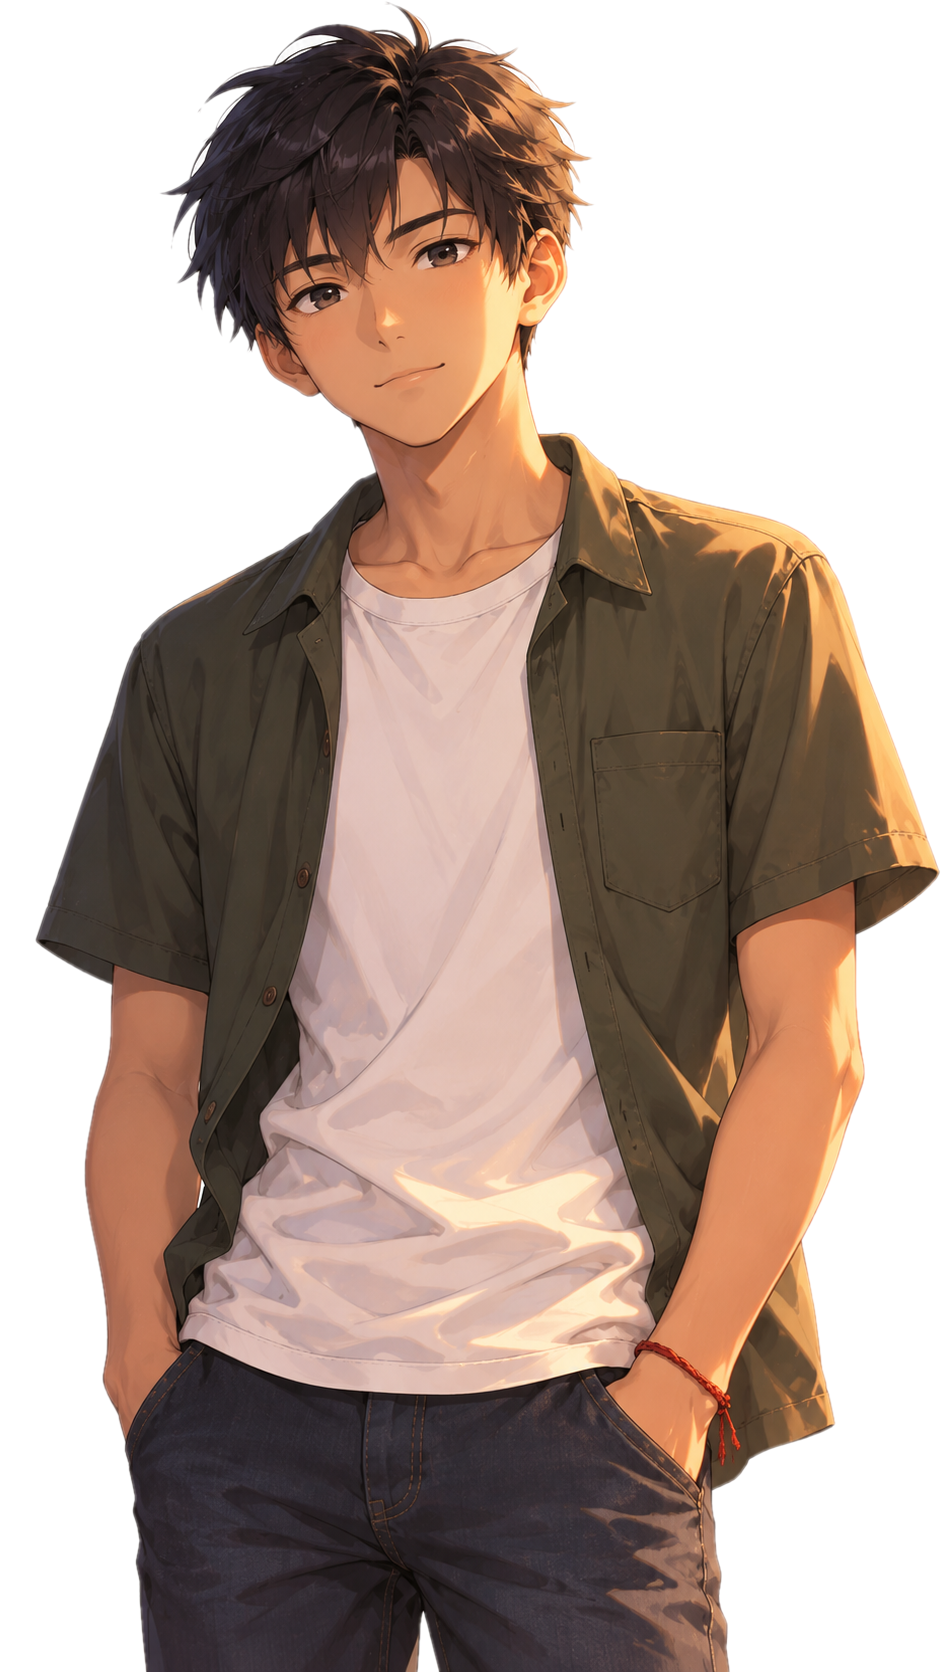
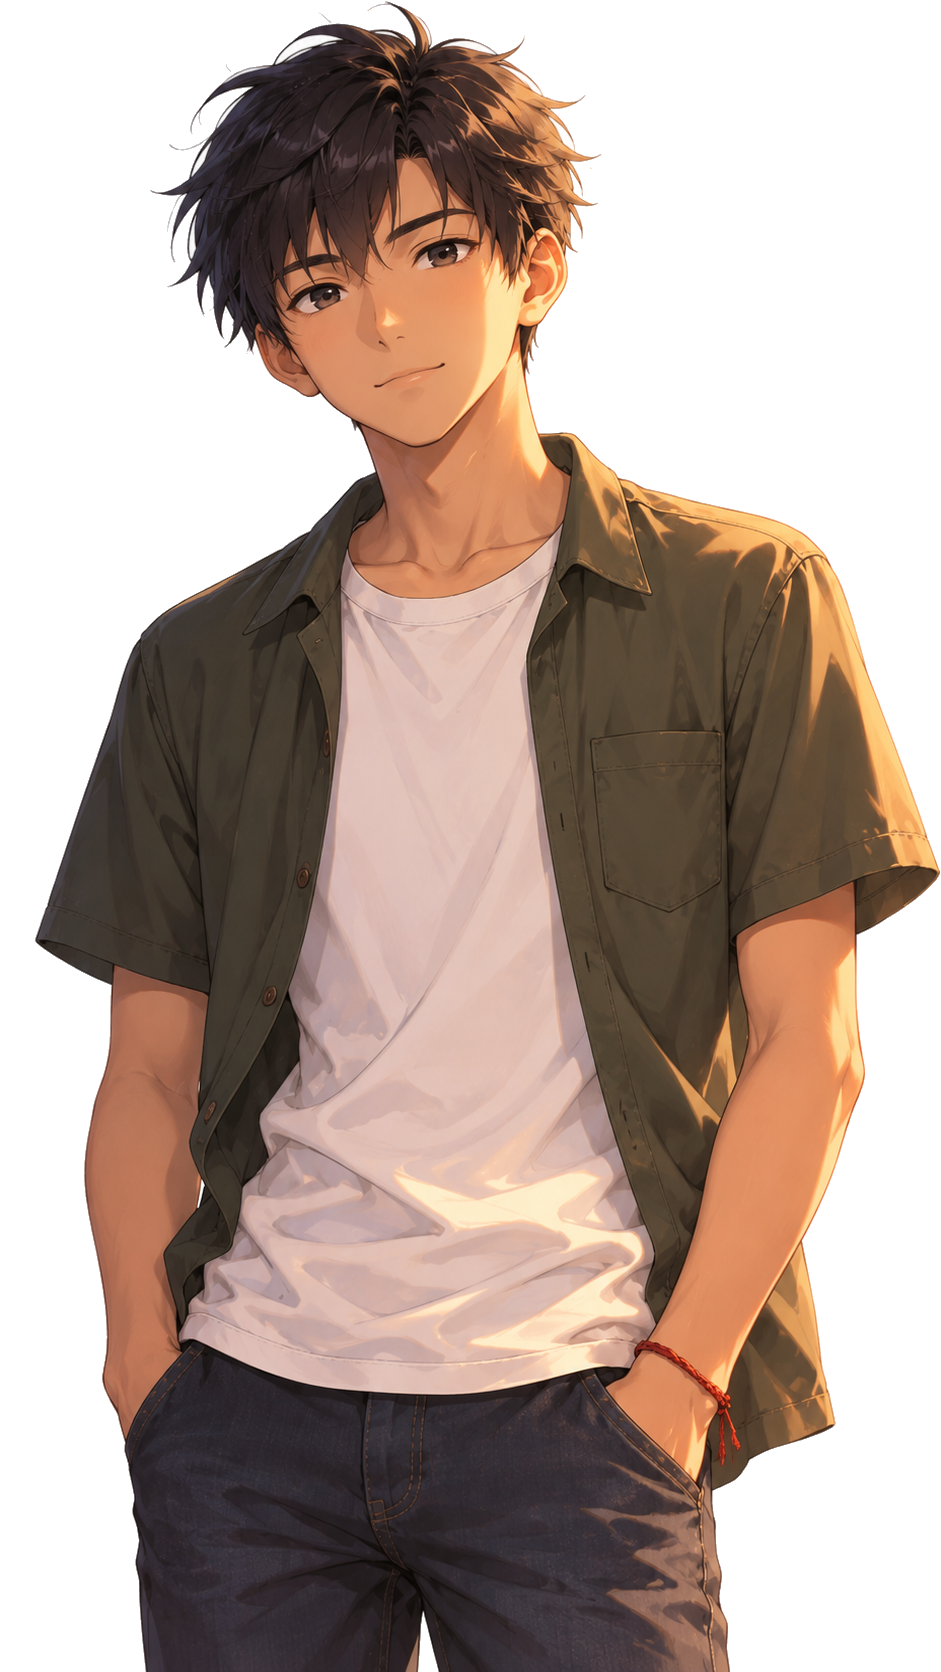
Perbaiki sisa putih di rambut karakter + penataan otomatis karakter (tidak bertumpuk, pembicara disorot)
Claude-Session: https://claude.ai/code/session_01MRhMC5f5cmwfwJoAVQABm5

diff --git a/app/src/main/java/com/valeriusgames/threadsofdestiny/game/GameActivity.kt b/app/src/main/java/com/valeriusgames/threadsofdestiny/game/GameActivity.kt
@@ -70,6 +70,7 @@ class GameActivity : Activity() {
         const val PREFS = "player"
         const val KEY_NAME = "name"
         const val KEY_GENDER = "gender"
+        const val CHAR_BASE_HEIGHT = 0.72f
         const val GENDER_MALE = "laki-laki"
         const val GENDER_FEMALE = "perempuan"
 
@@ -882,7 +883,9 @@ class GameActivity : Activity() {
             nameTag.visibility = View.VISIBLE
             nameTag.text = who
         }
-        updateCharPanel(who?.let { w -> gameData.findCharacter(w) ?: speakerIdFromRaw(speaker) })
+        val speakerDef = who?.let { w -> gameData.findCharacter(w) ?: speakerIdFromRaw(speaker) }
+        updateCharPanel(speakerDef)
+        highlightSpeaker(speakerDef?.id)
 
         if (dialog.alpha < 1f) {
             dialog.animate().cancel()
@@ -2960,6 +2963,9 @@ class GameActivity : Activity() {
         return loadAsset(names.flatMap { n -> listOf("karakter/$n.png", "karakter/$n.webp") })
     }
 
+    /** Karakter yang sedang bicara (untuk disorot); null = narasi / pemain. */
+    private var speakingCharId: String? = null
+
     private fun showCharacter(id: String, expr: String, pos: String, animate: Boolean = true) {
         val bmp = charBitmap(id, expr) ?: return
         val d = resources.displayMetrics.density
@@ -2970,39 +2976,91 @@ class GameActivity : Activity() {
             scaleType = android.widget.ImageView.ScaleType.FIT_END
         }
         iv.setImageBitmap(bmp)
-        val screenH = (charLayer.height.takeIf { it > 0 } ?: resources.displayMetrics.heightPixels)
-        val screenW = (charLayer.width.takeIf { it > 0 } ?: resources.displayMetrics.widthPixels)
-        if (existing == null) {
+        val isNew = existing == null
+        if (isNew) {
+            val screenH = (charLayer.height.takeIf { it > 0 } ?: resources.displayMetrics.heightPixels)
             charLayer.addView(iv, FrameLayout.LayoutParams(
-                ViewGroup.LayoutParams.WRAP_CONTENT, (screenH * 0.72f).toInt(),
+                ViewGroup.LayoutParams.WRAP_CONTENT, (screenH * CHAR_BASE_HEIGHT).toInt(),
                 android.view.Gravity.BOTTOM or android.view.Gravity.CENTER_HORIZONTAL,
             ))
+            if (animate) iv.translationY = 24 * d
         }
-        val targetX = when (pos) {
-            "kiri" -> -screenW * 0.26f
-            "kanan" -> screenW * 0.26f
-            else -> 0f
-        }
-        if (existing == null && animate) {
-            iv.alpha = 0f
-            iv.translationX = targetX
-            iv.translationY = 24 * d
-            iv.animate().alpha(1f).translationY(0f).setDuration(350).start()
-        } else {
-            iv.animate().translationX(targetX).setDuration(250).start()
-        }
+        // posisi baru selalu ditaruh paling akhir supaya urutan kiri→kanan stabil
+        shownChars.remove(id)
         shownChars[id] = expr to pos
         vars["_tampil"] = shownChars.entries.joinToString(";") { "${it.key}:${it.value.first}:${it.value.second}" }
+        layoutCharacters(animate, newId = if (isNew && animate) id else null)
+    }
+
+    /**
+     * Menata semua karakter yang tampil supaya tidak bertumpuk:
+     * 1 orang di tengah, 2 orang kiri–kanan, 3+ dibagi rata. Urutan mengikuti posisi
+     * yang diminta naskah (kiri / tengah / kanan). Yang bicara di depan & terang,
+     * yang lain sedikit lebih kecil dan redup.
+     */
+    private fun layoutCharacters(animate: Boolean, newId: String? = null) {
+        val w = (charLayer.width.takeIf { it > 0 } ?: resources.displayMetrics.widthPixels).toFloat()
+        val h = (charLayer.height.takeIf { it > 0 } ?: resources.displayMetrics.heightPixels).toFloat()
+        val rank = mapOf("kiri" to 0, "tengah" to 1, "kanan" to 2)
+        val order = shownChars.entries.withIndex()
+            .sortedWith(compareBy({ rank[it.value.value.second] ?: 1 }, { it.index }))
+            .map { it.value.key }
+        val n = order.size
+        if (n == 0) return
+        val heightFrac = when (n) { 1 -> 0.72f; 2 -> 0.66f; else -> 0.60f }
+        val spread = when (n) { 1 -> 0f; 2 -> 0.46f; 3 -> 0.62f; else -> 0.72f } * w
+        val speaker = speakingCharId?.takeIf { it in shownChars }
+        order.forEachIndexed { i, id ->
+            val iv = charLayer.findViewWithTag<android.widget.ImageView>("char_$id") ?: return@forEachIndexed
+            val x = if (n == 1) 0f else -spread / 2 + spread * i / (n - 1)
+            val dim = n > 1 && speaker != null && speaker != id
+            val scale = heightFrac / CHAR_BASE_HEIGHT * (if (dim) 0.95f else 1f)
+            // perkecil dari tengah-bawah (kaki tetap di bawah layar)
+            val viewH = h * CHAR_BASE_HEIGHT
+            val dr = iv.drawable
+            val viewW = if (dr != null && dr.intrinsicHeight > 0)
+                minOf(w, viewH * dr.intrinsicWidth / dr.intrinsicHeight) else w
+            iv.pivotX = viewW / 2
+            iv.pivotY = viewH
+            iv.colorFilter = if (dim) android.graphics.PorterDuffColorFilter(
+                0x66000000, android.graphics.PorterDuff.Mode.SRC_ATOP) else null
+            iv.translationZ = if (id == speaker) 2f else 0f
+            iv.animate().cancel()
+            if (id == newId) {
+                iv.alpha = 0f
+                iv.translationX = x
+                iv.scaleX = scale; iv.scaleY = scale
+                iv.animate().alpha(1f).translationY(0f).setDuration(350).start()
+            } else if (animate) {
+                iv.animate().alpha(1f).translationX(x).translationY(0f).scaleX(scale).scaleY(scale)
+                    .setDuration(260).start()
+            } else {
+                iv.alpha = 1f; iv.translationX = x; iv.translationY = 0f
+                iv.scaleX = scale; iv.scaleY = scale
+            }
+        }
+    }
+
+    /** Dipanggil saat dialog berganti pembicara. */
+    private fun highlightSpeaker(id: String?) {
+        if (speakingCharId == id) return
+        speakingCharId = id
+        if (shownChars.size > 1) layoutCharacters(animate = true)
     }
 
     private fun hideCharacter(id: String?) {
         val ids = if (id == null) shownChars.keys.toList() else listOf(id)
         ids.forEach { cid ->
-            val iv = charLayer.findViewWithTag<View>("char_$cid") ?: return@forEach
-            iv.animate().alpha(0f).setDuration(250).withEndAction { charLayer.removeView(iv) }.start()
             shownChars.remove(cid)
+            val iv = charLayer.findViewWithTag<View>("char_$cid") ?: return@forEach
+            // lepas tag dulu: kalau karakter yang sama langsung dimunculkan lagi,
+            // dibuat gambar baru, bukan gambar yang sedang menghilang
+            iv.tag = null
+            iv.animate().cancel()
+            iv.animate().alpha(0f).setDuration(220).withEndAction { charLayer.removeView(iv) }.start()
         }
         vars["_tampil"] = shownChars.entries.joinToString(";") { "${it.key}:${it.value.first}:${it.value.second}" }
+        if (shownChars.isNotEmpty()) layoutCharacters(animate = true)
     }
 
     private fun restoreShownCharacters() {

diff --git a/tools/hapus_latar.py b/tools/hapus_latar.py
@@ -1,0 +1,73 @@
+#!/usr/bin/env python3
+# Pemakaian: python3 tools/hapus_latar.py gambar_asli.png app/src/main/assets/karakter/nama.png
+# Butuh: pip install pillow numpy scipy
+"""Hapus latar putih: alpha halus di tepi + celah putih di sela rambut, buang sisa putih."""
+import sys
+import numpy as np
+from PIL import Image
+from scipy import ndimage as ndi
+
+src, dst = sys.argv[1], sys.argv[2]
+P = np.asarray(Image.open(src).convert("RGB")).astype(np.float32)
+mn = P.min(2); mx = P.max(2)
+# 1) latar: keputihan yang tersambung ke tepi gambar
+cand = (mn >= 222) & (mx - mn <= 28)
+lab, _ = ndi.label(cand)
+border = np.unique(np.concatenate([lab[0], lab[-1], lab[:, 0], lab[:, -1]]))
+bg = np.isin(lab, border[border > 0])
+dist_bg = ndi.distance_transform_edt(~bg)
+# 2) celah putih di sela rambut, dicari bertahap (merambat dari celah ke celah)
+whitish = (mn >= 195) & (mx - mn <= 32)
+lab2, n2 = ndi.label(whitish & ~bg)
+holes = np.zeros_like(bg)
+if n2:
+    idx = np.arange(1, n2 + 1)
+    sizes = ndi.sum(np.ones_like(mn), lab2, idx)
+    mean = ndi.mean(mn, lab2, idx)
+    # kecerahan di sekeliling celah: celah rambut dikelilingi gelap, kilau baju dikelilingi terang
+    ring_lab = np.where(~whitish, ndi.maximum_filter(lab2, 5), 0)
+    with np.errstate(invalid="ignore"):
+        ring = np.nan_to_num(ndi.mean(mn, ring_lab, idx), nan=255.0)
+    dark_around = ring < 140
+    for _ in range(6):
+        d = ndi.distance_transform_edt(~(bg | holes))
+        mind = ndi.minimum(d, lab2, idx)
+        keep = idx[dark_around & (((sizes < 2500) & (mind <= 45)) | ((mean >= 240) & (sizes < 60000) & (mind <= 60)))]
+        new_holes = np.isin(lab2, keep)
+        if (new_holes & ~holes).sum() == 0:
+            break
+        holes |= new_holes
+bg_all = bg | holes
+# penyapu: bintik putih murni kecil yang menempel di daerah transparan
+if n2:
+    for _ in range(2):
+        d = ndi.distance_transform_edt(~bg_all)
+        mind = ndi.minimum(d, lab2, idx)
+        extra = idx[(sizes < 400) & (mean >= 238) & (mind <= 2)]
+        add = np.isin(lab2, extra) & ~bg_all
+        if not add.any():
+            break
+        holes |= add
+        bg_all |= add
+dist_bg = ndi.distance_transform_edt(~bg_all)
+# 3) daerah ragu = cincin tepi + celah; warna padat terdekat sebagai warna asli
+unknown = holes | (~bg_all & (dist_bg <= 3))
+solid = ~bg_all & ~unknown
+_, (iy, ix) = ndi.distance_transform_edt(~solid, return_indices=True)
+F = P[iy, ix]
+c = np.argmax(255 - F, axis=2)
+Fc = np.take_along_axis(F, c[..., None], 2)[..., 0]
+Pc = np.take_along_axis(P, c[..., None], 2)[..., 0]
+denom = 255 - Fc
+a_est = np.clip((255 - Pc) / np.maximum(denom, 1), 0, 1)
+a = np.where(bg, 0.0, 1.0)
+a = np.where(unknown & (denom > 35), a_est, a)
+# 4) warna tanpa campuran putih
+safe = np.maximum(a, 1e-3)[..., None]
+C = np.clip((P - (1 - a)[..., None] * 255) / safe, 0, 255)
+wgt = np.clip((a - 0.15) / 0.5, 0, 1)[..., None]
+C = np.where(unknown[..., None], C * wgt + F * (1 - wgt), P)
+a = ndi.gaussian_filter(a, 0.5)
+a[solid & (dist_bg > 5)] = 1.0
+out = np.dstack([C, a * 255]).round().astype(np.uint8)
+Image.fromarray(out, "RGBA").save(dst, optimize=True)

diff --git a/docs/PROGRES.md b/docs/PROGRES.md
@@ -118,6 +118,12 @@
 4. Deteksi "ketahuan punya pasangan lain" (untuk masa dewasa), sistem ending & mimpi terakhir.
 5. ~~Prompt gambar AI~~ ✅ dibuat: [PROMPT_GAMBAR.md](PROMPT_GAMBAR.md). Pemilik sedang membuat gambar asli.
    - Foto **tokoh utama** (`pemain_l` / `pemain_p`): tampil di halaman isi nama, Status, dan Kontak → Saya (tersembunyi bila gambar belum ada).
+   - **Perbaikan tampilan karakter** (masukan pemilik setelah mencoba build 19):
+     - Sisa putih di rambut: penghapus latar baru `tools/hapus_latar.py` (alpha halus di tepi, buang campuran putih,
+       deteksi celah putih di sela rambut yang dikelilingi warna gelap; kilau baju/handuk/jilbab tetap utuh). Semua 13 gambar diproses ulang.
+     - Karakter bertumpuk: penataan otomatis — 1 orang di tengah, 2 orang kiri–kanan, 3+ dibagi rata (urutan mengikuti
+       kiri/tengah/kanan di naskah), makin banyak makin kecil. Yang **sedang bicara** di depan & terang, yang lain sedikit redup.
+       Karakter yang disembunyikan lalu langsung dimunculkan lagi tidak lagi hilang/tersangkut.
    - Gambar asli gelombang 3: **pemain_l, pemain_p** (foto tokoh utama) + background **toko_buku, taman_kota** (untuk Bab 4). Semua gambar karakter & background dasar kini sudah asli.
    - Gambar asli terpasang (gelombang 2): **darto, bayu, sekar, dimas, nadia, sahabat_l (Arka), sahabat_p (Alya), sosok** + 12 background: kamar_pagi, plafon, rumah_warung, gudang_ikan, kota_kecil, sekolah, stasiun_hujan, stasiun_desa, kos_kamar, kelas_sma, stasiun_besar (dipakai di Bab 3), dermaga_malam (untuk Bab 4).
    - Gambar asli terpasang: **ayah** (versi ke-2), **ibu**, **laras** (latar putih dihapus otomatis + foto profil `_foto.jpg` 512×512).
